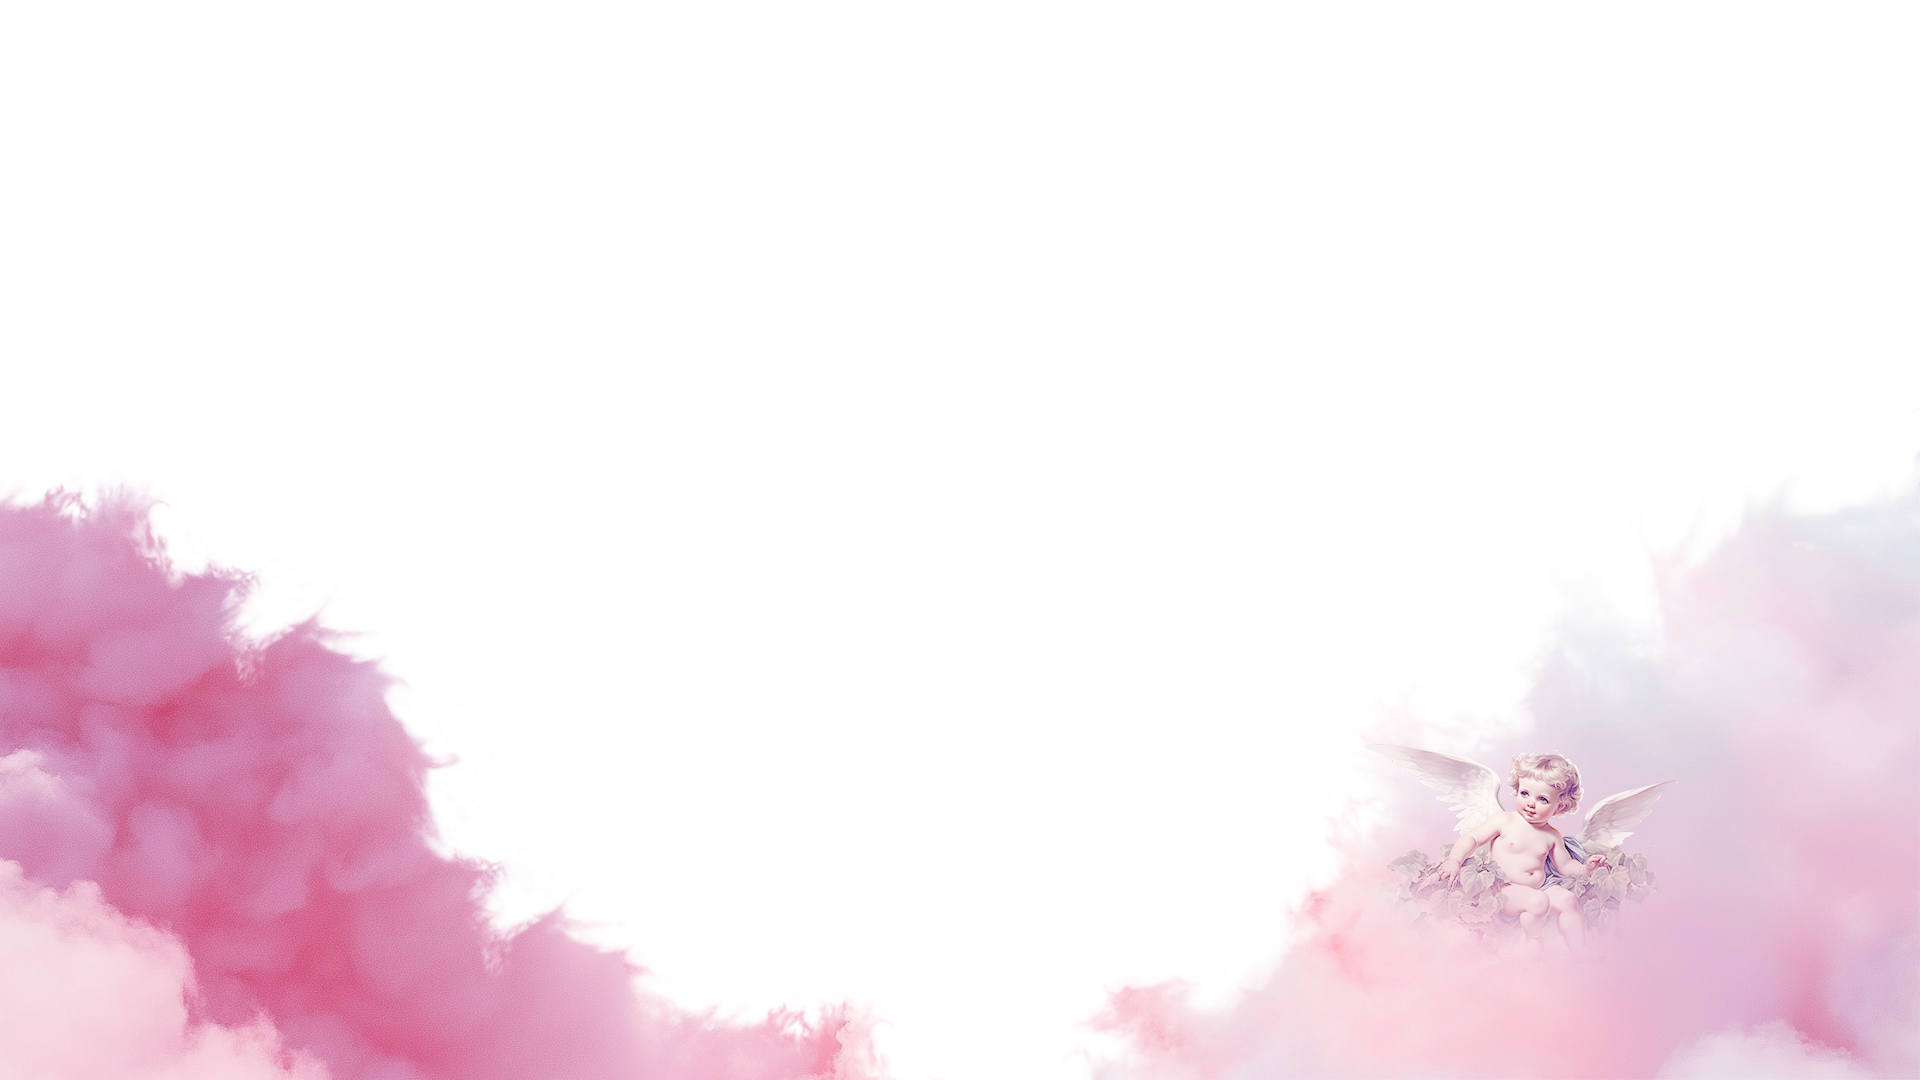
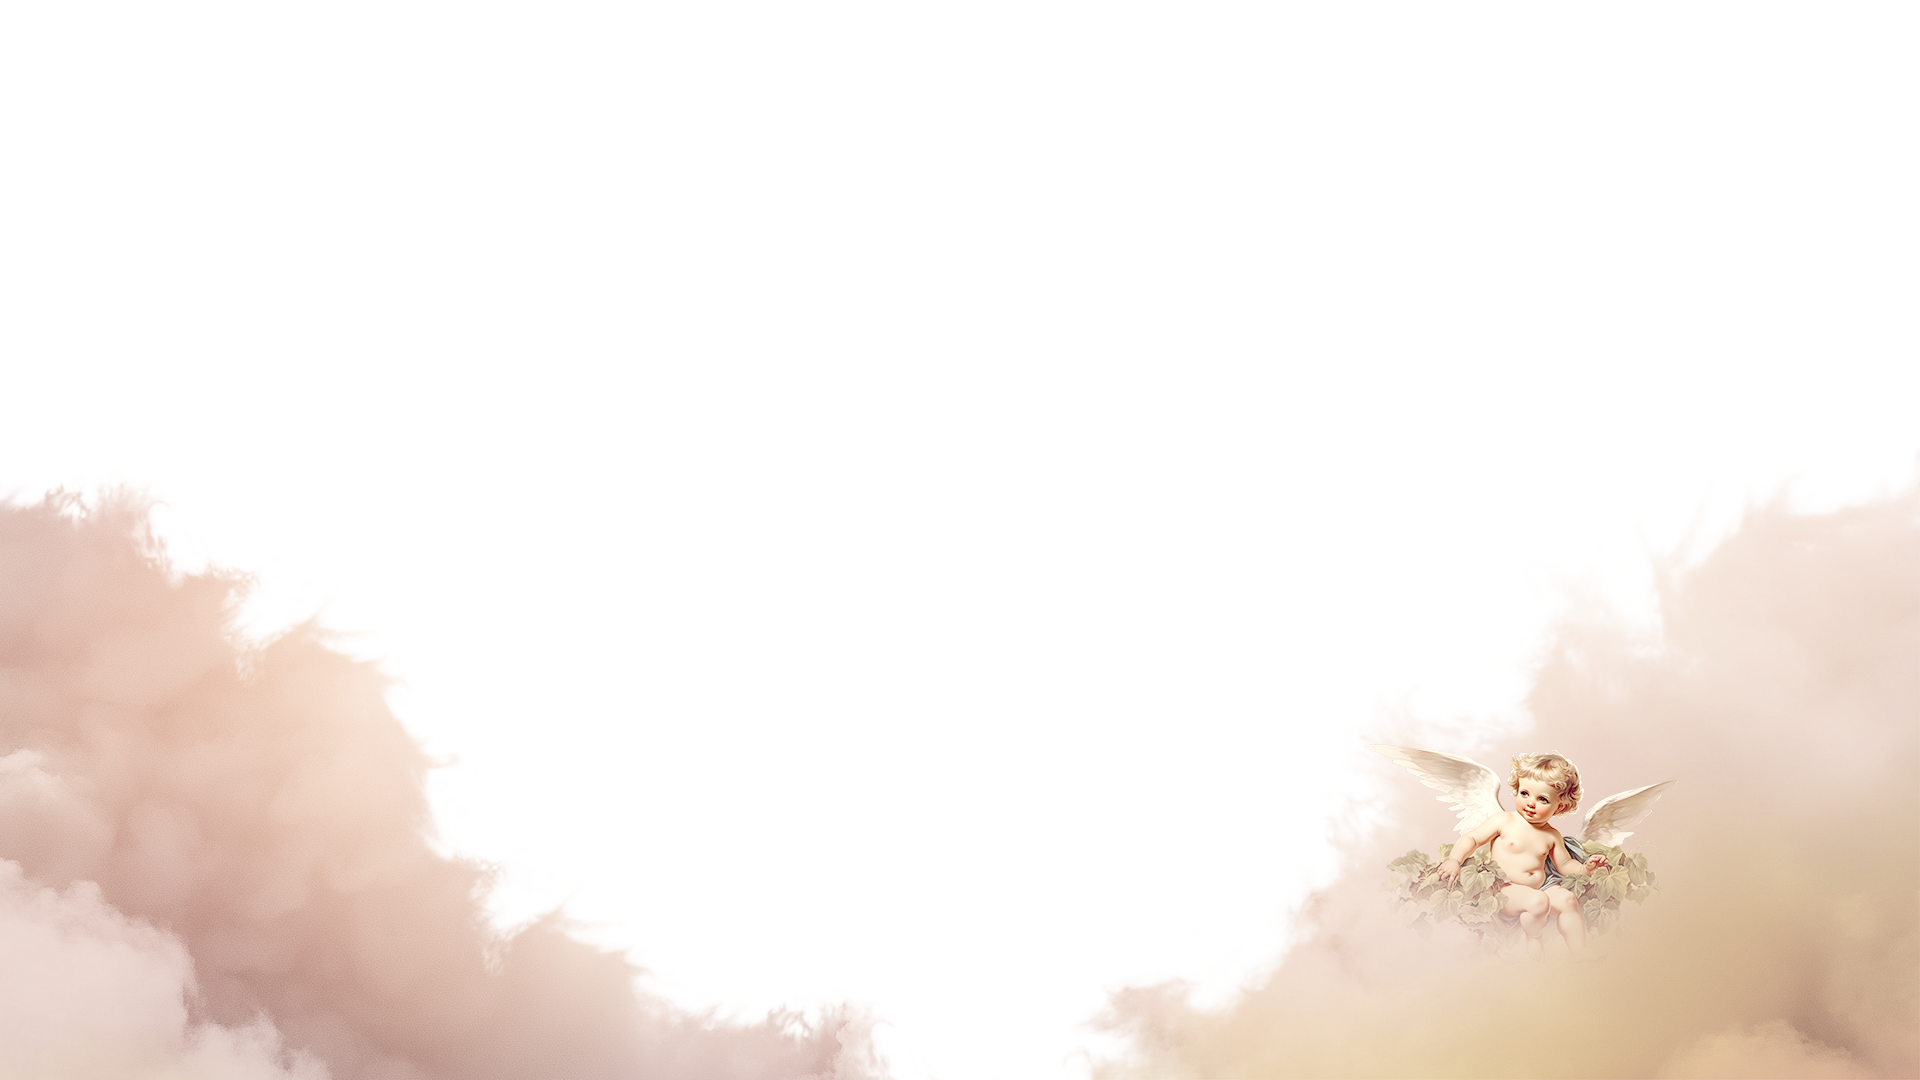
chore: almost final

Changed region(s): [[0.0, 0.4583, 0.3438, 1.0], [0.5938, 0.6417, 1.0, 1.0], [0.4062, 0.9472, 0.4375, 1.0]]

diff --git a/src/App.jsx b/src/App.jsx
@@ -49,7 +49,7 @@ function HeavenPlanes() {
   const { viewport, camera } = useThree();
   const { width, height } = viewport.getCurrentViewport(camera, [0, 0, 0]);
 
-  const textures = useTexture(["p4.png", "p3.png", "p2.png", "p1.png"]);
+  const textures = useTexture(["p4.jpg", "p3.png", "p2.png", "p1.png"]);
 
   useFrame((state) => {
     state.camera.position.x = Math.sin(state.clock.elapsedTime) / 15;
